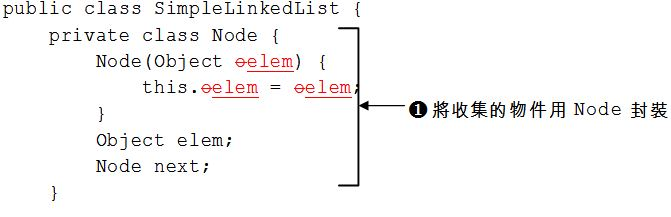
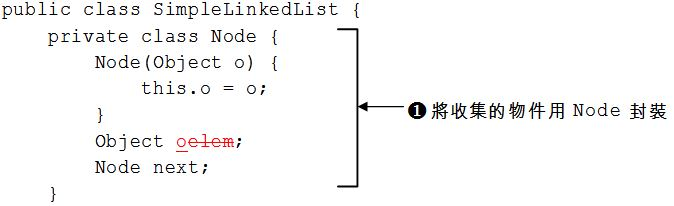
新增勘誤

diff --git a/samples/CH09/Collection/src/cc/openhome/SimpleLinkedList.java b/samples/CH09/Collection/src/cc/openhome/SimpleLinkedList.java
@@ -2,10 +2,10 @@ package cc.openhome;
 
 public class SimpleLinkedList {
     private class Node {
-        Node(Object elem) {
-            this.elem = elem;
+        Node(Object o) {
+            this.o = o;
         }
-        Object elem;
+        Object o;
         Node next;
     }
     
@@ -59,6 +59,6 @@ public class SimpleLinkedList {
             last = last.next;
             count++;
         }
-        return last.elem;
+        return last.o;
     }
 }

diff --git a/correct_errors.md b/correct_errors.md
@@ -102,6 +102,10 @@
 
    ![P9-6](images/9_6_typo_1.JPG)
 
+## P9-7
+
+   ![P9-7](images/9_7_typo_1.JPG)
+
 ## P12-41
 
    ![P12-41](images/12_41_typo_1.JPG)
